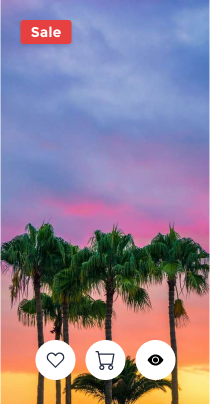
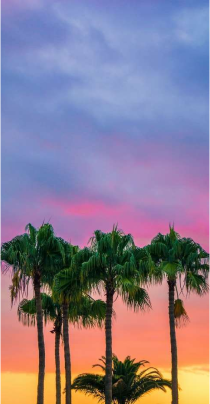
adicionando restante da estrutura html

diff --git a/index.html b/index.html
@@ -130,8 +130,124 @@
                 </li>
             </ul>
         </section>
-        <section id="shop-card"></section>
-        <section id="bestseller-products"></section>
+        <section id="shop-card">
+            <div class="card">
+                <div class="overlay">
+                  <h3 class="card-title">Top Product Of the Week</h3>
+                  <a href="#" class="card-button">Explore Items</a>
+                </div>
+            </div>
+            <div class="card">
+                <div class="overlay">
+                  <h3 class="card-title">Top Product Of the Week</h3>
+                  <a href="#" class="card-button">Explore Items</a>
+            </div>
+            </div>
+            <div class="card">
+                <div class="overlay">
+                  <h3 class="card-title">Top Product Of the Week</h3>
+                  <a href="#" class="card-button">Explore Items</a>
+                </div>
+            </div>
+        </section>
+        <section id="bestseller-products">
+            <p>Featured Products</p>
+            <h2>Bestseller Products</h2>
+            <p>Problems trying to resolve the conflict between</p>
+            <div id="product-card-grid">
+                <div>
+                    <img src="assets/product-cover-1-180w.png" alt="">
+                    <h1>Graphic Design</h1>
+                    <p>English Department</p>
+                    <p>
+                        <span>$16.48</span>
+                        <span>$6.48</span>
+                    </p>
+                </div>
+                <div>
+                    <img src="assets/product-cover-2-180w.png" alt="">
+                    <h1>Graphic Design</h1>
+                    <p>English Department</p>
+                    <p>
+                        <span>$16.48</span>
+                        <span>$6.48</span>
+                    </p>
+                </div>
+                <div>
+                    <img src="assets/product-cover-3-180w.png" alt="">
+                    <h1>Graphic Design</h1>
+                    <p>English Department</p>
+                    <p>
+                        <span>$16.48</span>
+                        <span>$6.48</span>
+                    </p>
+                </div>
+                <div>
+                    <img src="assets/product-cover-4-180w.png" alt="">
+                    <h1>Graphic Design</h1>
+                    <p>English Department</p>
+                    <p>
+                        <span>$16.48</span>
+                        <span>$6.48</span>
+                    </p>
+                </div>
+                <div>
+                    <img src="assets/product-cover-5-180w.png" alt="">
+                    <h1>Graphic Design</h1>
+                    <p>English Department</p>
+                    <p>
+                        <span>$16.48</span>
+                        <span>$6.48</span>
+                    </p>
+                </div>
+                <div>
+                    <img src="assets/product-cover-1-180w.png" alt="">
+                    <h1>Graphic Design</h1>
+                    <p>English Department</p>
+                    <p>
+                        <span>$16.48</span>
+                        <span>$6.48</span>
+                    </p>
+                </div>
+                <div>
+                    <img src="assets/product-cover-6-180w.png" alt="">
+                    <h1>Graphic Design</h1>
+                    <p>English Department</p>
+                    <p>
+                        <span>$16.48</span>
+                        <span>$6.48</span>
+                    </p>
+                </div>
+                <div>
+                    <img src="assets/product-cover-7-180w.png" alt="">
+                    <h1>Graphic Design</h1>
+                    <p>English Department</p>
+                    <p>
+                        <span>$16.48</span>
+                        <span>$6.48</span>
+                    </p>
+                </div>
+                <div>
+                    <img src="assets/product-cover-8-180w.png" alt="">
+                    <h1>Graphic Design</h1>
+                    <p>English Department</p>
+                    <p>
+                        <span>$16.48</span>
+                        <span>$6.48</span>
+                    </p>
+                </div>
+                <div>
+                    <img src="assets/product-cover-3-180w.png" alt="">
+                    <h1>Graphic Design</h1>
+                    <p>English Department</p>
+                    <p>
+                        <span>$16.48</span>
+                        <span>$6.48</span>
+                    </p>
+                </div>
+                <button>Load more products</button>
+            </div>
+        </section>
         <section id="featured-products">
             <img src="assets/featured-products-512w.png" alt="Foto de duas garotas sorrindo">
             <div>
@@ -172,8 +288,124 @@
         <section id="featured-posts">
             <p>Practice Advice</p>
             <h2>Featured Posts</h2>
-            <div></div>
-            <div></div>
+            <div class="post">
+                <div class="product-card">
+                    <div>
+                        <img src="assets/featured-post-1-210w.png" alt="Céu de fim de tarde com coqueiros na frente">
+                        <p>Sale</p>
+                        <div>
+                            <button>
+                                <img src="assets/favorite-icon.svg" alt="Ícone clicável para dar like na postagem">
+                            </button>
+                            <button>
+                                <img src="assets/cart-icon.svg" alt="Ícone clicável para adicionar o conteúdo da postagem ao carrinho">
+                            </button>
+                            <button>
+                                <img src="assets/watch-icon.svg" alt="Ícone clicável para deixar o conteúdo da postagem em observação">
+                            </button>
+                        </div>
+                    </div>
+                </div>
+                <div class="product-info">
+                    <div>
+                        <p>English Department</p>
+                        <div>
+                            <img src="assets/rating-icon.svg" aria-hidden="true" alt="">
+                            <p>4.9</p>
+                        </div>
+                        <h4>Graphic Design</h4>
+                        <p>We focus on ergonomics and meeting you where you work. It's only a keystroke away.</p>
+                        <div>
+                            <img src="assets/sales-icon.svg" aria-hidden="true" alt="">
+                            <p>15 Sales</p>
+                        </div>
+                        <div>
+                            <p>$16.48</p>
+                            <p>$6.48</p>
+                        </div>
+                        <div class="color-options">
+                            <span class="color"></span>
+                            <span class="color"></span>
+                            <span class="color"></span>
+                            <span class="color"></span>
+                        </div>
+                        <div>
+                            <span>
+                                <img src="assets/clock-icon.svg" alt="">
+                                <p>22h...</p>
+                            </span>
+                            <span>
+                                <img src="assets/lessons-icon.svg" alt="">
+                                <p>64 Lessons</p>
+                            </span>
+                            <span>
+                                <img src="assets/progress-icon.svg" alt="">
+                                <p>Progress</p>
+                            </span>
+                        </div>
+                    </div>
+                    <a href="#">Learn More</a>
+                </div>
+            </div>
+            <div class="post">
+                <div class="product-card">
+                    <div>
+                        <img src="assets/featured-post-1-210w.png" alt="Céu de fim de tarde com coqueiros na frente">
+                        <p>Sale</p>
+                        <div>
+                            <button>
+                                <img src="assets/favorite-icon.svg" alt="Ícone clicável para dar like na postagem">
+                            </button>
+                            <button>
+                                <img src="assets/cart-icon.svg" alt="Ícone clicável para adicionar o conteúdo da postagem ao carrinho">
+                            </button>
+                            <button>
+                                <img src="assets/watch-icon.svg" alt="Ícone clicável para deixar o conteúdo da postagem em observação">
+                            </button>
+                        </div>
+                    </div>
+                </div>
+                <div class="product-info">
+                    <div>
+                        <p>English Department</p>
+                        <div>
+                            <img src="assets/rating-icon.svg" aria-hidden="true" alt="">
+                            <p>4.9</p>
+                        </div>
+                        <h4>Graphic Design</h4>
+                        <p>We focus on ergonomics and meeting you where you work. It's only a keystroke away.</p>
+                        <div>
+                            <img src="assets/sales-icon.svg" aria-hidden="true" alt="">
+                            <p>15 Sales</p>
+                        </div>
+                        <div>
+                            <p>$16.48</p>
+                            <p>$6.48</p>
+                        </div>
+                        <div class="color-options">
+                            <span class="color"></span>
+                            <span class="color"></span>
+                            <span class="color"></span>
+                            <span class="color"></span>
+                        </div>
+                        <div>
+                            <span>
+                                <img src="assets/clock-icon.svg" alt="">
+                                <p>22h...</p>
+                            </span>
+                            <span>
+                                <img src="assets/lessons-icon.svg" alt="">
+                                <p>64 Lessons</p>
+                            </span>
+                            <span>
+                                <img src="assets/progress-icon.svg" alt="">
+                                <p>Progress</p>
+                            </span>
+                        </div>
+                    </div>
+                    <a href="#">Learn More</a>
+                </div>
+            </div>
         </section>
     </main>
     <footer>
